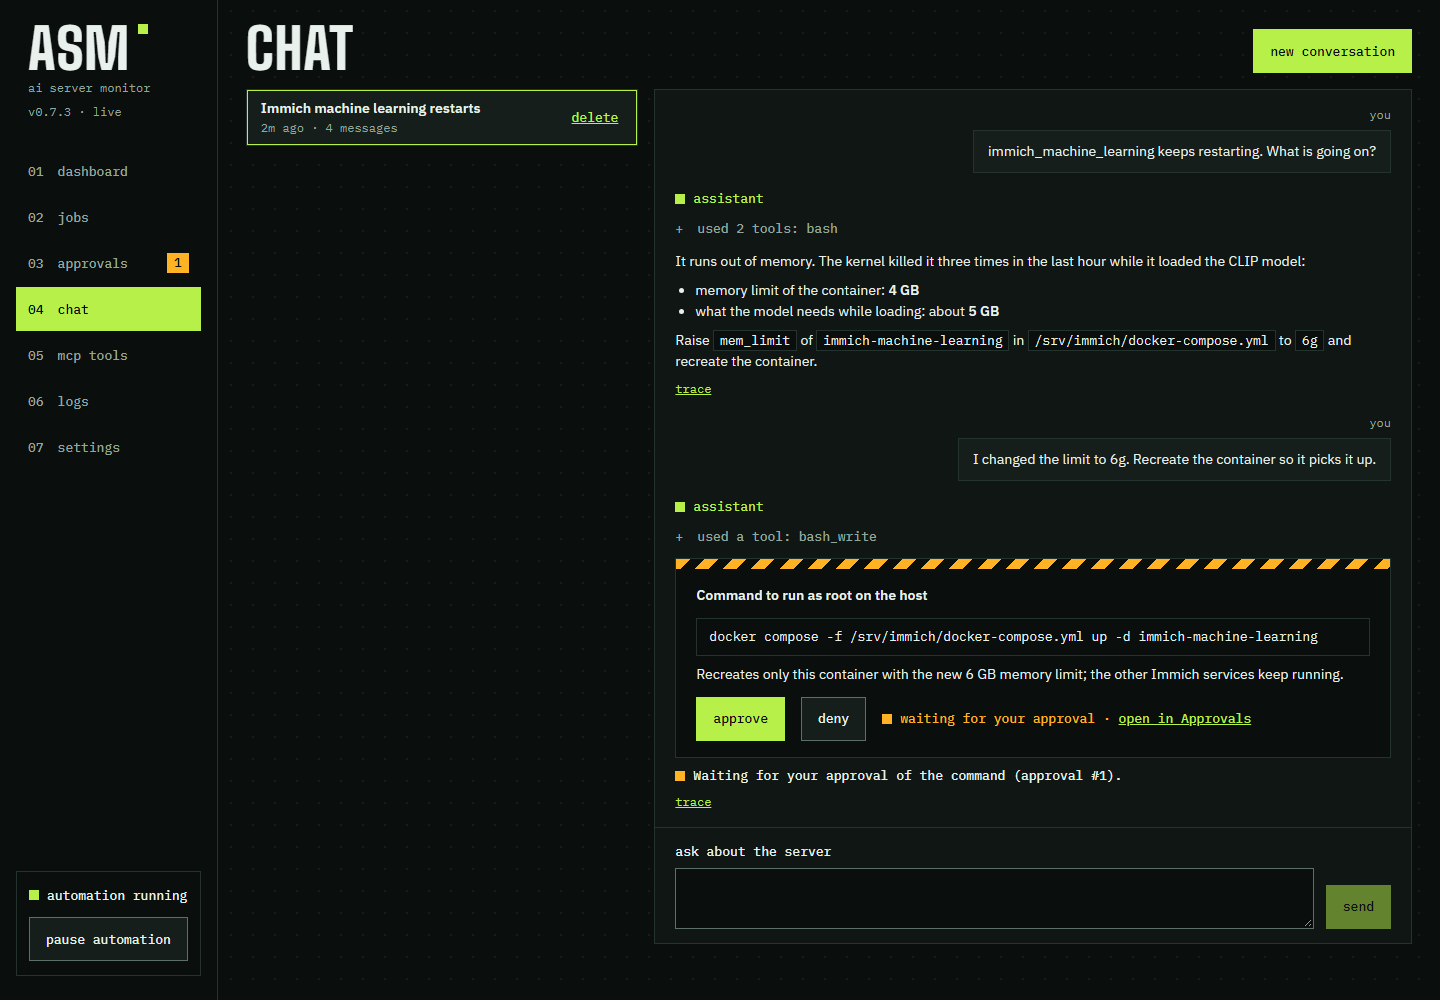
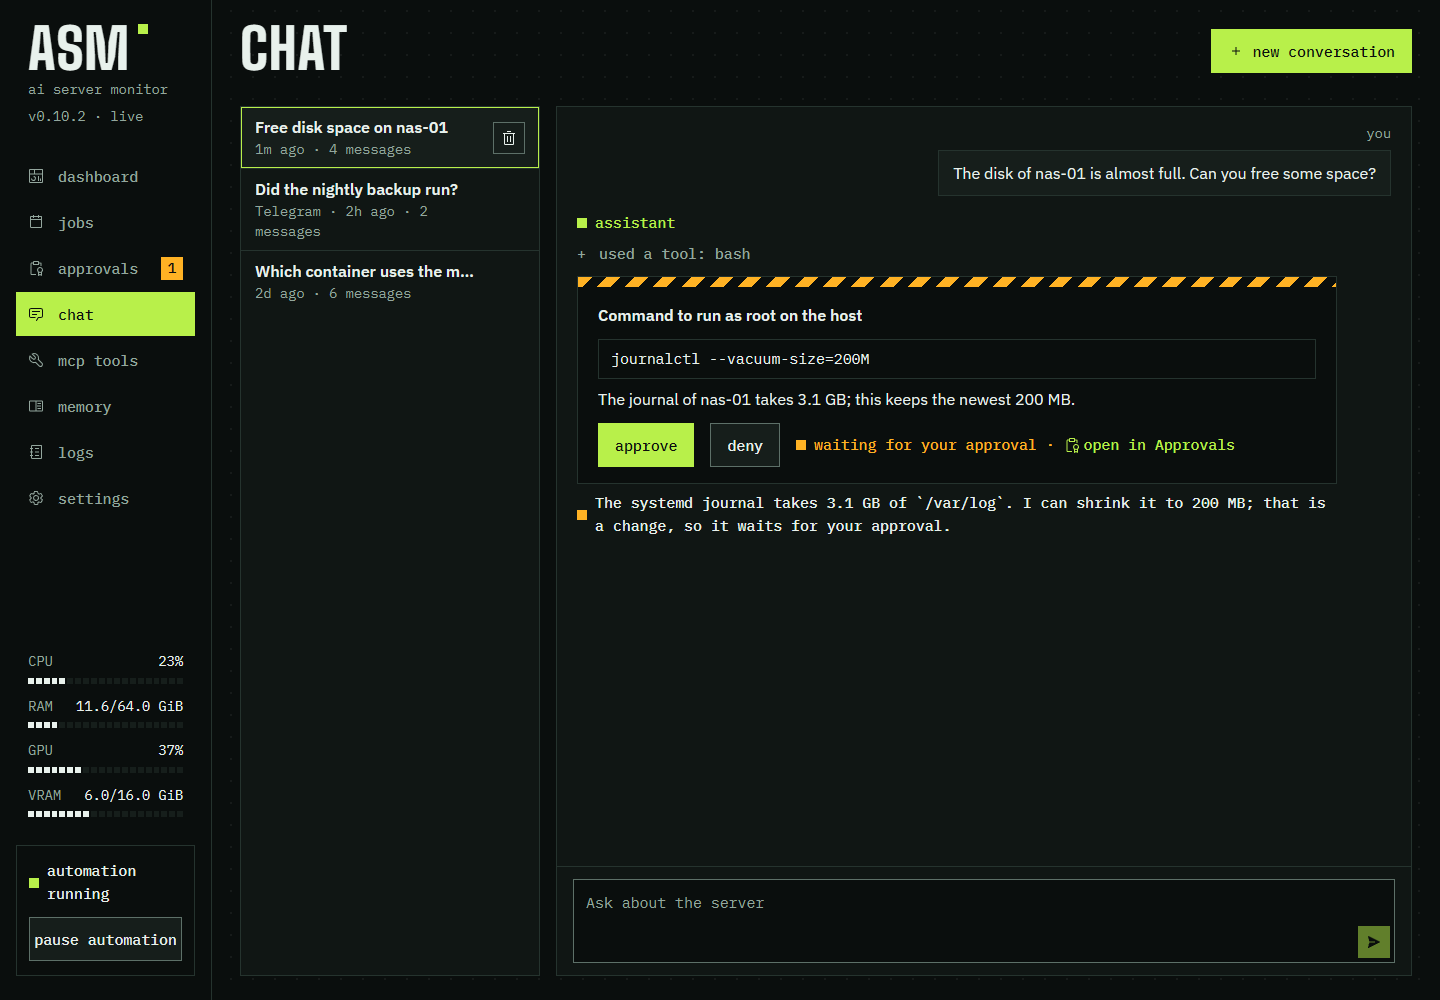
Screenshots: chat approval remade with the current rail, prompt card and Memory pictures added (ASM-45)
The three come from a Playwright spec (SHOT_DIR set, dark Chromium): the real UI, the API
answered with invented data, the hardware meters of a machine that does not exist. The
screenshots script no longer takes the chat picture.

diff --git a/frontend/tests/e2e/screenshots.fixed.spec.ts b/frontend/tests/e2e/screenshots.fixed.spec.ts
@@ -1,0 +1,165 @@
+// The README's pictures of the chat with an approval, a prompt card and the Memory page (docs/samples/ui): the real UI in
+// dark Chromium, the API answered with invented data (the hardware meters too). It takes pictures only when SHOT_DIR is
+// set, so a normal test run leaves it out:
+//   SHOT_DIR=../docs/samples/ui npx playwright test screenshots --project=fixed-width-dark
+import { http, HttpResponse } from "msw";
+import type { Page } from "@playwright/test";
+import { batch, action } from "../mocks/fixtures/approvals";
+import { memoryPage } from "../mocks/fixtures/memory";
+import { expect, test } from "./fixtures";
+
+const DIR = process.env.SHOT_DIR;
+test.skip(!DIR, "set SHOT_DIR to take the README pictures");
+test.beforeEach(({ browserName }, info) => {
+  test.skip(browserName !== "chromium" || info.project.name !== "fixed-width-dark", "dark Chromium only");
+});
+
+const GIB = 1024 ** 3;
+const NOW = Math.floor(Date.now() / 1000);
+
+/** What the rail of every page shows: the version, the meters of a machine that does not exist, one approval waiting. */
+const shell = (pending: number) => [
+  http.get("/api/info", () => HttpResponse.json({ version: "0.10.2", commit: "" })),
+  http.get("/api/hardware", () =>
+    HttpResponse.json({
+      cpu_percent: 23.4,
+      ram_used: Math.round(11.6 * GIB),
+      ram_total: 64 * GIB,
+      gpus: [{ name: "Demo Accelerator 9000", util_percent: 37, vram_used: 6 * GIB, vram_total: 16 * GIB }],
+    }),
+  ),
+  http.get("/api/status", () =>
+    HttpResponse.json({
+      automation: { paused: false },
+      jobs: [],
+      llm_configured: true,
+      main_model: "demo-main",
+      worker_model: "demo-worker",
+      now: NOW,
+      pending_approvals: pending,
+      uptime_s: 7200,
+      version: "0.10.2",
+    }),
+  ),
+  http.get("/api/chat/sessions", () =>
+    HttpResponse.json({
+      items: [
+        { id: "s-journal", title: "Free disk space on nas-01", channel: "web", created: NOW - 600, updated: NOW - 60, messages: 4 },
+        { id: "s-backup", title: "Did the nightly backup run?", channel: "telegram", created: NOW - 90_000, updated: NOW - 7_200, messages: 2 },
+        { id: "s-fan", title: "Which container uses the most memory", channel: "web", created: NOW - 200_000, updated: NOW - 190_000, messages: 6 },
+      ],
+      limit: 50,
+      offset: 0,
+      total: 3,
+    }),
+  ),
+];
+
+const session = (id: string, title: string, messages: Record<string, unknown>[], cards: unknown[] = []) =>
+  http.get(`/api/chat/sessions/${id}`, () =>
+    HttpResponse.json({ id, title, channel: "web", created: NOW - 600, updated: NOW - 60, cards, messages: messages.map((m, i) => ({ id: i + 1, ts: NOW - 300 + i, ...m })) }),
+  );
+
+/** The event stream of a server that is up: the rail says "live" (the page opens one EventSource, which is all it needs). */
+const liveStream = (page: Page) =>
+  page.addInitScript(() => {
+    class OpenStream {
+      onopen: (() => void) | null = null;
+      onerror: (() => void) | null = null;
+      constructor() {
+        setTimeout(() => this.onopen?.(), 0);
+      }
+      addEventListener() {}
+      close() {}
+    }
+    (window as unknown as { EventSource: unknown }).EventSource = OpenStream;
+  });
+
+const shot = async (page: Page, name: string) => {
+  await page.waitForTimeout(800);
+  await page.screenshot({ path: `${DIR}/${name}.png` });
+};
+
+test.describe("README pictures", () => {
+  test("chat-approval: a changing command waits for the owner", async ({ page, network }) => {
+    await page.setViewportSize({ width: 1440, height: 1000 });
+    const pending = batch({
+      id: 71,
+      title: "Free disk space",
+      action: "host_command",
+      summary: "host command",
+      source: "chat:s-journal",
+      expires_at: NOW + 2 * 3600,
+      items: [
+        action({
+          id: 501,
+          action: "host_command",
+          target: "host",
+          source: "chat:s-journal",
+          ts: NOW - 120,
+          expires_at: NOW + 2 * 3600,
+          args: { command: "journalctl --vacuum-size=200M", reason: "The journal of nas-01 takes 3.1 GB; this keeps the newest 200 MB." },
+        }),
+      ],
+    });
+    network.use(
+      ...shell(1),
+      http.get("/api/approvals", () => HttpResponse.json({ batches: [pending], items: pending.items })),
+      session("s-journal", "Free disk space on nas-01", [
+        { role: "user", content: "The disk of nas-01 is almost full. Can you free some space?" },
+        { role: "assistant", content: null, tool_calls: [{ id: "c1", type: "function", function: { name: "bash", arguments: { command: "du -xh /var --max-depth=2 | sort -h | tail -4" } } }] },
+        { role: "tool", name: "bash", tool_call_id: "c1", content: "3.1G\t/var/log/journal\n3.4G\t/var/log\n9.8G\t/var/lib/docker\n14G\t/var", meta: { ok: true } },
+        {
+          role: "assistant",
+          content: "The systemd journal takes 3.1 GB of `/var/log`. I can shrink it to 200 MB; that is a change, so it waits for your approval.",
+          meta: { waiting_for: [501] },
+        },
+      ]),
+    );
+    await liveStream(page);
+    await page.goto("/#/chat/s-journal");
+    await expect(page.getByText("waiting for your approval").first()).toBeVisible();
+    await expect(page.getByText(/GPU/).first()).toBeVisible();
+    await shot(page, "chat-approval");
+  });
+
+  test("chat-prompt-card: the model asks the owner and waits", async ({ page, network }) => {
+    await page.setViewportSize({ width: 1440, height: 1100 });
+    const questions = [
+      { text: "Which disk of nas-01 should the SMART test run on first?", kind: "single", options: ["sda (system, 2 years old)", "sdb (data, 6 years old)"] },
+      { text: "Which checks do you want?", kind: "multi", options: ["short SMART test", "long SMART test"] },
+      { text: "Anything the test must not interrupt?", kind: "text", options: [] },
+    ];
+    network.use(
+      ...shell(0),
+      session(
+        "s-journal",
+        "Check the disks of nas-01",
+        [
+          { role: "user", content: "Check the disks of nas-01." },
+          { role: "assistant", content: null, tool_calls: [{ id: "ask", type: "function", function: { name: "ask_owner", arguments: { questions } } }] },
+          { role: "assistant", content: "Waiting for your answer.", meta: { cards: [9] } },
+        ],
+        [{ id: 9, session_id: "s-journal", call_id: "ask", status: "open", questions, answers: null, created: NOW - 60, answered: null, answered_via: null }],
+      ),
+    );
+    await liveStream(page);
+    await page.goto("/#/chat/s-journal");
+    await expect(page.getByRole("button", { name: "send answers" })).toBeVisible();
+    await page.getByRole("radio", { name: "sdb (data, 6 years old)" }).check();
+    await page.getByRole("checkbox", { name: "long SMART test" }).check();
+    await page.getByRole("textbox", { name: "3. Anything the test must not interrupt?" }).fill("The backup of 02:00.");
+    await expect(page.getByRole("button", { name: "send answers" })).toBeEnabled();
+    await page.locator(".fd-pane-scroll").last().evaluate((el) => el.scrollTo(0, 0));
+    await shot(page, "chat-prompt-card");
+  });
+
+  test("memory: the notes the model keeps", async ({ page, network }) => {
+    await page.setViewportSize({ width: 1440, height: 900 });
+    network.use(...shell(0), http.get("/api/memory", () => HttpResponse.json(memoryPage())));
+    await liveStream(page);
+    await page.goto("/#/memory/1");
+    await expect(page.getByRole("heading", { name: "Backup window" })).toBeVisible();
+    await shot(page, "memory");
+  });
+});

diff --git a/README.md b/README.md
@@ -44,6 +44,8 @@ It passes only on a real tool call; a model that writes the call as text fails t
 | **Dashboard**: one card per summary, then every job's runs on a clock | **Jobs**: summaries and their jobs; turn them on and off, edit them, run one now |
 | [![A run of the Health summary with its findings and the jobs it ran](docs/samples/ui/job-run.png)](docs/samples/ui/job-run.png) | [![Chat asking to approve a command on the host](docs/samples/ui/chat-approval.png)](docs/samples/ui/chat-approval.png) |
 | **A summary run**: the headline, findings by severity, and its jobs in the order they ran | **Chat**: a change runs only after you approve the command |
+| [![A prompt card: the model asks three questions and waits for the answers](docs/samples/ui/chat-prompt-card.png)](docs/samples/ui/chat-prompt-card.png) | [![Memory: the notes the model keeps, one open](docs/samples/ui/memory.png)](docs/samples/ui/memory.png) |
+| **A prompt card**: the model asks you questions in the chat and waits; answer here or in Telegram | **Memory**: the notes the model keeps for itself and its jobs; edit or delete them |
 
 ## Quick start
 
